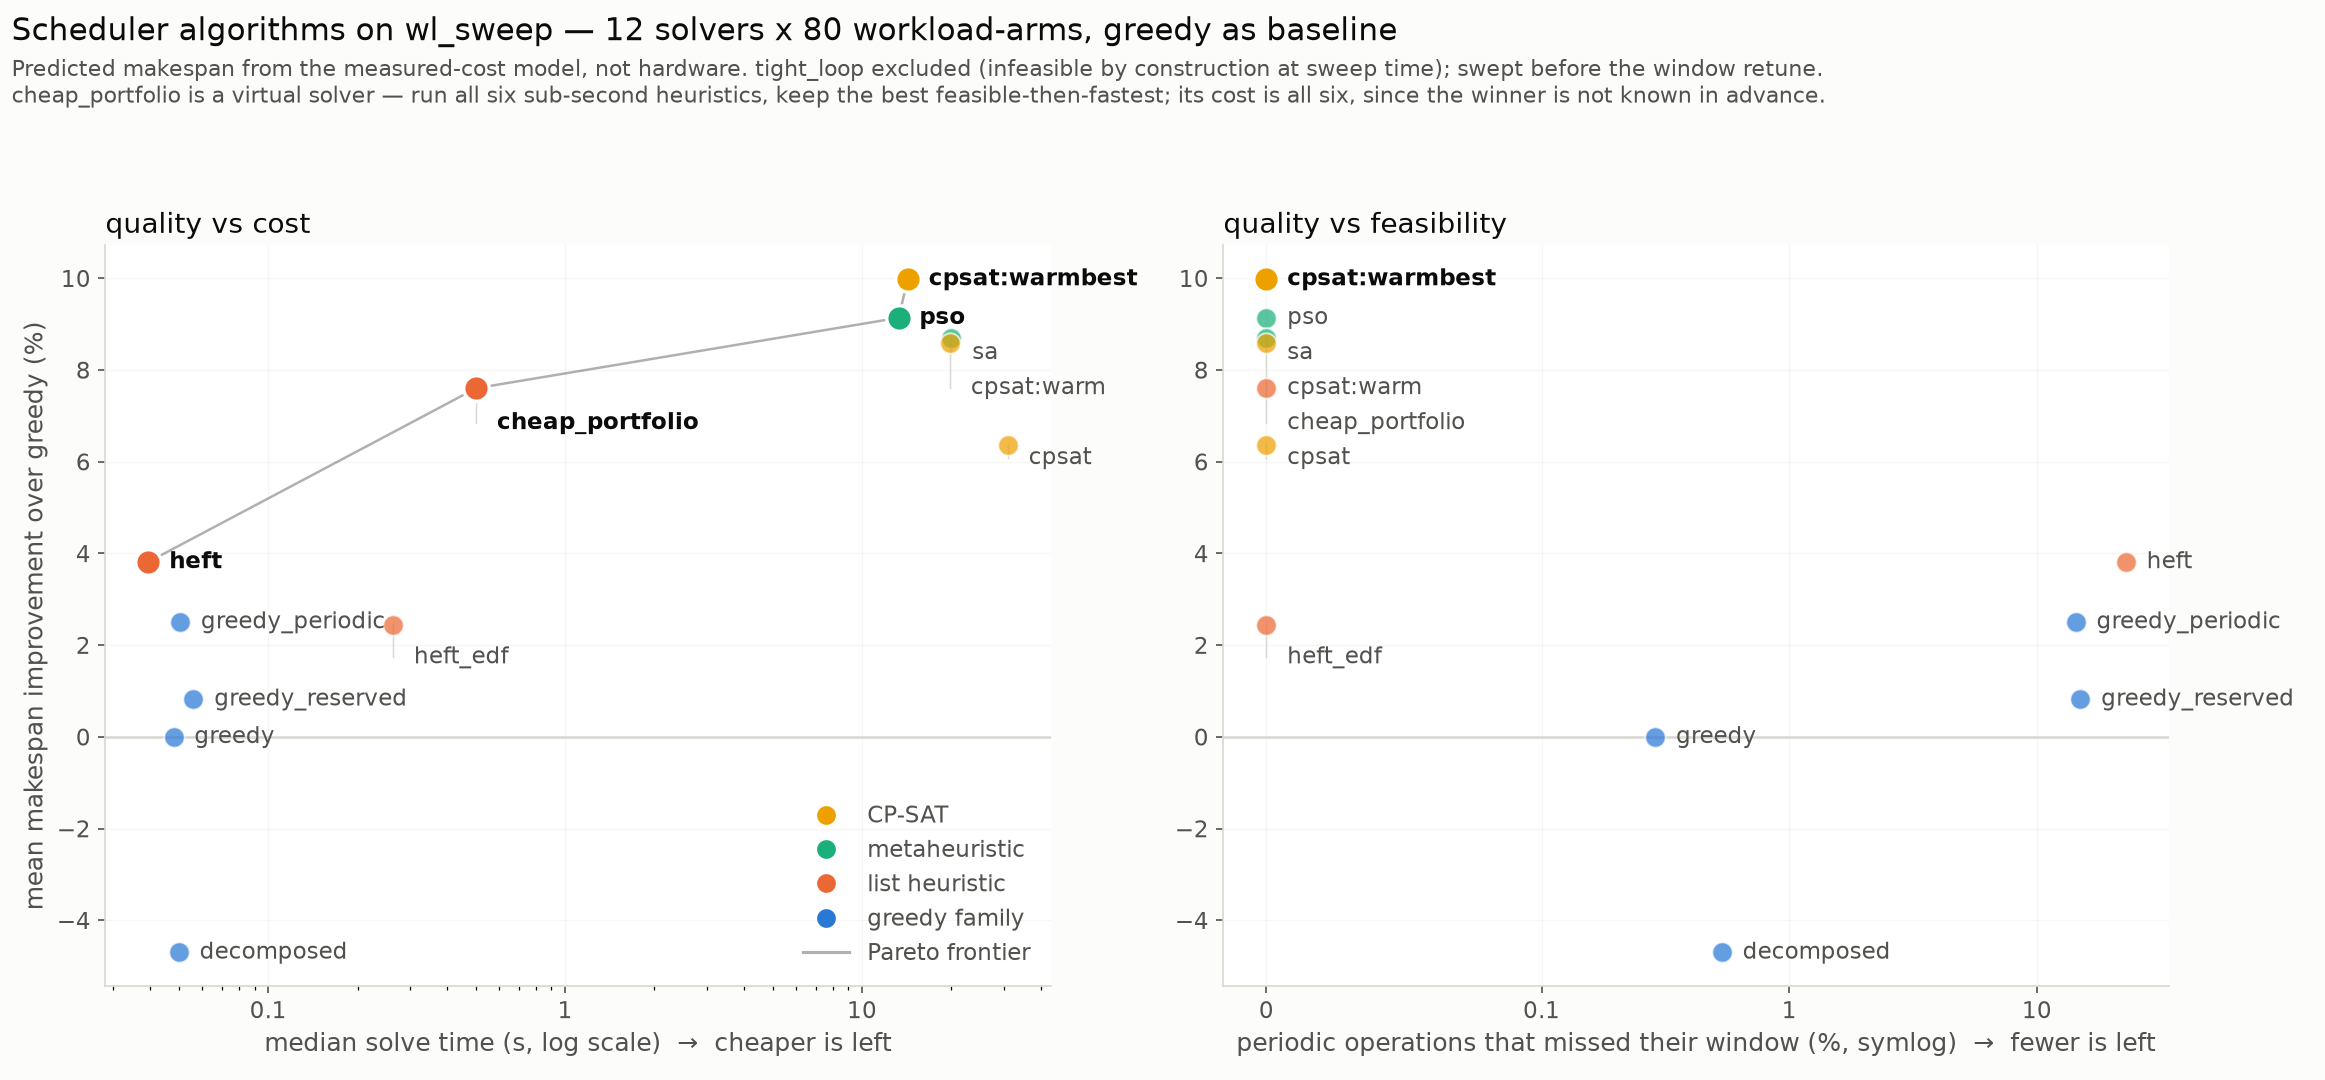
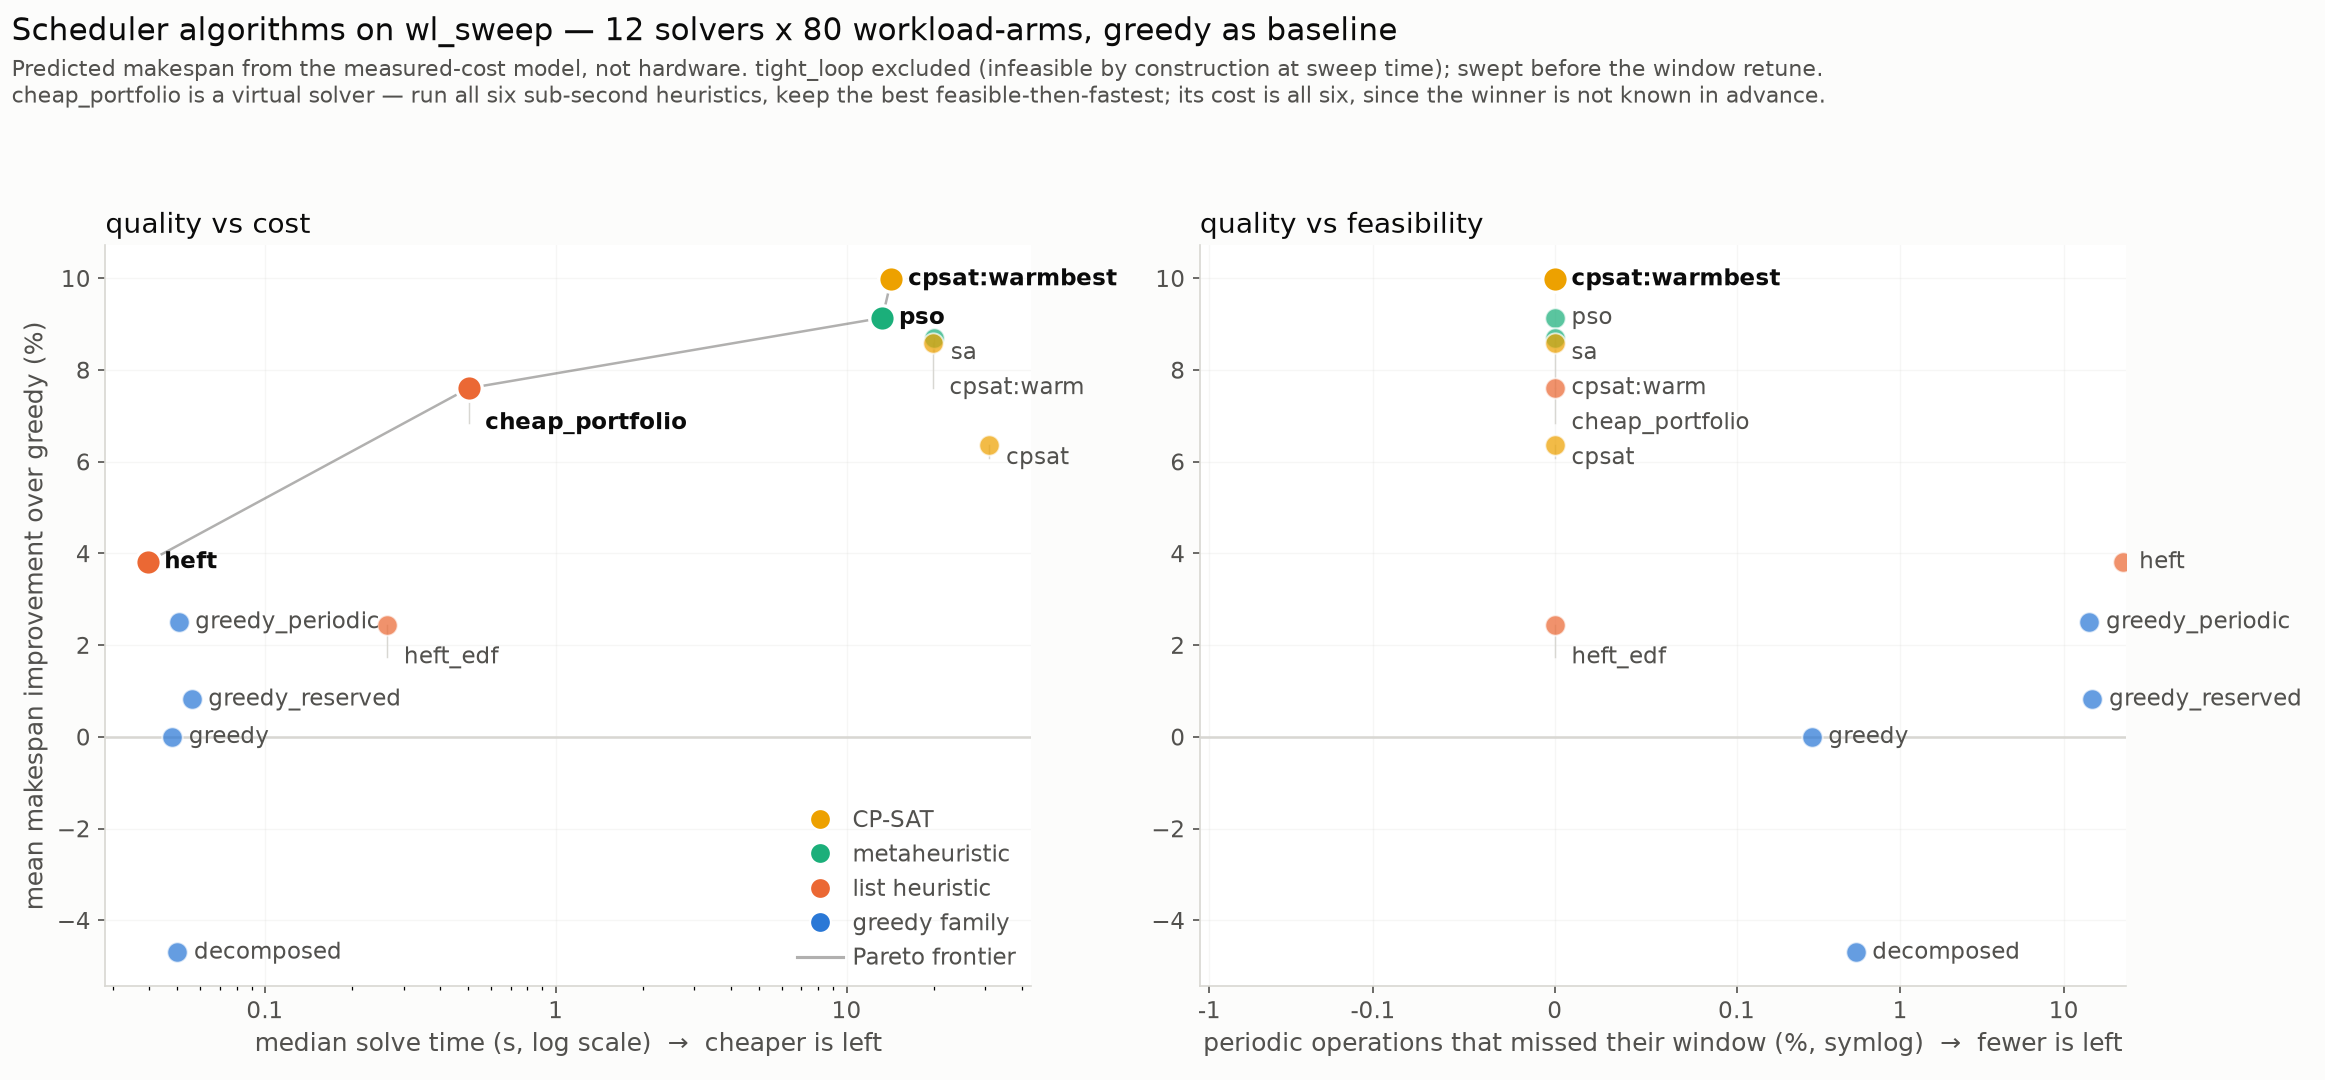
sched_algo_sweep10: a column-width variant for print
--paper renders a second figure sized for a tight single column rather than
scaling the wide one down. That distinction matters: dropping a 15.5in figure
into a 3.5in column takes 11pt type to about 2.5pt whatever size was set, so
the fix is to render at the target size, not to enlarge the source. Type ends
up roughly 2.8x larger relative to the figure.

The panels stack, because two side by side in 3.5in leave about 1.6in each and
twelve labelled points cannot survive that. Points past the panel midline label
leftwards so nothing runs off the edge, axis labels are shortened, and the
running caption is dropped -- a paper supplies its own, and repeating it here
would eat a third of the column.

The wide version is unchanged and still the default.

diff --git a/experiments/sched_algo_sweep10/scripts/plot_pareto.py b/experiments/sched_algo_sweep10/scripts/plot_pareto.py
@@ -16,7 +16,7 @@ the reference palette's slots 1-4 in fixed order.
 Baseline is greedy, per workload-arm: it is the incumbent that every one of the
 88 measured FPGA cells was scheduled with.
 """
-import csv, os, statistics, collections
+import csv, os, statistics, collections, sys
 import matplotlib
 matplotlib.use("Agg")
 import matplotlib.pyplot as plt
@@ -35,6 +35,22 @@ FAMILY = {
     "cpsat:warmbest": ("CP-SAT", "#eda100"),
 }
 INK, INK2, GRID = "#0b0b0b", "#52514e", "#d8d7d2"
+
+# PAPER MODE. A figure destined for a tight single column must be RENDERED at
+# column width, not drawn wide and shrunk: scaling a 15.5in figure into a 3.5in
+# column takes 11pt type down to about 2.5pt no matter what size was set. Here
+# the panels stack (two side by side in 3.5in would leave ~1.6in each, which
+# twelve labelled points cannot survive) and the type is sized for print, which
+# makes it roughly 2.8x larger RELATIVE to the figure than the wide version.
+PAPER = "--paper" in sys.argv
+if PAPER:
+    FIG, STACK = (3.6, 6.4), True
+    F_TITLE, F_PANEL, F_AX, F_TICK, F_LBL, F_LEG, F_CAP = 8.5, 8.0, 7.5, 7.0, 6.6, 6.6, 5.8
+    MS_ON, MS_OFF = 46, 30
+else:
+    FIG, STACK = (15.5, 7.2), False
+    F_TITLE, F_PANEL, F_AX, F_TICK, F_LBL, F_LEG, F_CAP = 15, 13.5, 12, 11, 11, 11, 10.5
+    MS_ON, MS_OFF = 150, 95
 
 rows = list(csv.DictReader(open(f"{R}/results.csv")))
 # tight_loop's periods were infeasible by construction when this swept, so every
@@ -84,7 +100,8 @@ for r in rows:
 # number: you cannot know which of the six wins on a given workload without
 # running all of them, so every one is on the critical path to the answer.
 S = sorted(imp, key=lambda s: -statistics.mean(imp[s]))
-fig, (ax1, ax2) = plt.subplots(1, 2, figsize=(15.5, 7.2))
+fig, (ax1, ax2) = plt.subplots(2, 1, figsize=FIG) if STACK else \
+                  plt.subplots(1, 2, figsize=FIG)
 
 
 def frontier(ax, xs, ys, names, lower_x_better=True):
@@ -101,9 +118,11 @@ def frontier(ax, xs, ys, names, lower_x_better=True):
 
 for ax, xs, xlabel, scale in (
         (ax1, [statistics.median(wall[s]) for s in S],
-         "median solve time (s, log scale)  →  cheaper is left", "log"),
+         ("median solve time (s)" if PAPER else
+          "median solve time (s, log scale)  →  cheaper is left"), "log"),
         (ax2, [statistics.mean(miss_pct[s]) for s in S],
-         "periodic operations that missed their window (%, symlog)  →  fewer is left",
+         ("periodic ops missing their window (%)" if PAPER else
+          "periodic operations that missed their window (%, symlog)  →  fewer is left"),
          "symlog")):
     ys = [statistics.mean(imp[s]) for s in S]
     front = frontier(ax, xs, ys, S)
@@ -123,15 +142,22 @@ for ax, xs, xlabel, scale in (
     for i, (x, y, s) in enumerate(zip(xs, ys, S)):
         fam, col = FAMILY[s]
         on = s in front
-        ax.scatter([x], [y], s=150 if on else 95, color=col, zorder=3,
+        ax.scatter([x], [y], s=MS_ON if on else MS_OFF, color=col, zorder=3,
                    edgecolor="white", linewidth=1.6 if on else 0.9,
                    alpha=1.0 if on else 0.72)
         ly = label_y[i]
         # a hairline leader only when the label had to move off its point
         if abs(ly - y) > gap * 0.35:
             ax.plot([x, x], [y, ly], color=GRID, lw=0.7, zorder=2)
-        ax.annotate(s, (x, ly), textcoords="offset points", xytext=(10, -3),
-                    fontsize=11, color=INK if on else INK2,
+        # In a single column there is no room for a right-hand label on a
+        # right-hand point, so points past the midline label leftwards.
+        x0, x1 = ax.get_xlim()
+        frac = ((ax.transData.transform((x, 0))[0] - ax.transAxes.transform((0, 0))[0])
+                / max(ax.transAxes.transform((1, 0))[0] - ax.transAxes.transform((0, 0))[0], 1))
+        left = PAPER and frac > 0.55
+        ax.annotate(s, (x, ly), textcoords="offset points",
+                    xytext=(-8 if left else 8, -3), ha="right" if left else "left",
+                    fontsize=F_LBL, color=INK if on else INK2,
                     fontweight="bold" if on else "normal", zorder=4)
     # symlog, not log, on the misses axis: six solvers sit at EXACTLY zero
     # misses, and a linear axis crushes them into one pile against heft's 2930
@@ -145,18 +171,23 @@ for ax, xs, xlabel, scale in (
     ax.xaxis.set_major_formatter(FuncFormatter(lambda v, _: f"{v:g}"))
     ax.xaxis.set_minor_formatter(NullFormatter())
     ax.axhline(0, color=GRID, lw=1.2, zorder=0)
-    ax.set_xlabel(xlabel, fontsize=12, color=INK2)
+    ax.set_xlabel(xlabel, fontsize=F_AX, color=INK2)
+    if PAPER:
+        ax.margins(x=0.12)
     ax.grid(alpha=0.22, lw=0.6, color=GRID)
     ax.set_axisbelow(True)
     for sp in ("top", "right"):
         ax.spines[sp].set_visible(False)
     for sp in ("left", "bottom"):
         ax.spines[sp].set_color(GRID)
-    ax.tick_params(colors=INK2, labelsize=11)
+    ax.tick_params(colors=INK2, labelsize=F_TICK)
 
-ax1.set_ylabel("mean makespan improvement over greedy (%)", fontsize=12, color=INK2)
-ax1.set_title("quality vs cost", fontsize=13.5, color=INK, loc="left")
-ax2.set_title("quality vs feasibility", fontsize=13.5, color=INK, loc="left")
+for _a in ((ax1, ax2) if STACK else (ax1,)):
+    _a.set_ylabel("makespan gain over greedy (%)" if PAPER
+                  else "mean makespan improvement over greedy (%)",
+                  fontsize=F_AX, color=INK2)
+ax1.set_title("quality vs cost", fontsize=F_PANEL, color=INK, loc="left")
+ax2.set_title("quality vs feasibility", fontsize=F_PANEL, color=INK, loc="left")
 
 seen, handles = set(), []
 from matplotlib.lines import Line2D
@@ -164,23 +195,31 @@ for s in S:
     fam, col = FAMILY[s]
     if fam in seen: continue
     seen.add(fam)
-    handles.append(Line2D([], [], marker="o", ls="", color=col, markersize=10,
+    handles.append(Line2D([], [], marker="o", ls="", color=col, markersize=6 if PAPER else 10,
                           markeredgecolor="white", label=fam))
 handles.append(Line2D([], [], ls="-", color=INK2, alpha=0.45, label="Pareto frontier"))
-ax1.legend(handles=handles, loc="lower right", frameon=False, fontsize=11,
-           labelcolor=INK2)
+ax1.legend(handles=handles, loc="lower right", frameon=False, fontsize=F_LEG,
+           labelcolor=INK2, handletextpad=0.4, borderpad=0.2,
+           labelspacing=0.3 if PAPER else 0.5)
 
-fig.suptitle("Scheduler algorithms on wl_sweep — 12 solvers x 80 workload-arms, "
-             "greedy as baseline", fontsize=15, color=INK, x=0.005, ha="left",
-             y=0.985)
-fig.text(0.005, 0.905,
-         "Predicted makespan from the measured-cost model, not hardware. tight_loop excluded "
-         "(infeasible by construction at sweep time); swept before the window retune.\n"
-         "cheap_portfolio is a virtual solver — run all six sub-second heuristics, keep the best "
-         "feasible-then-fastest; its cost is all six, since the winner is not known in advance.",
-         fontsize=10.5, color=INK2, ha="left")
-fig.tight_layout(rect=[0, 0, 1, 0.875])
-out = os.path.join(os.path.dirname(HERE), "plots", "solver_pareto.png")
+if PAPER:
+    # No running caption: the paper's own figure caption carries the method and
+    # the caveats, and repeating them here would eat a third of the column.
+    fig.suptitle("Scheduler algorithms on wl_sweep", fontsize=F_TITLE,
+                 color=INK, x=0.01, ha="left", y=0.995)
+else:
+    fig.suptitle("Scheduler algorithms on wl_sweep — 12 solvers x 80 workload-arms, "
+                 "greedy as baseline", fontsize=F_TITLE, color=INK, x=0.005,
+                 ha="left", y=0.985)
+    fig.text(0.005, 0.905,
+             "Predicted makespan from the measured-cost model, not hardware. tight_loop excluded "
+             "(infeasible by construction at sweep time); swept before the window retune.\n"
+             "cheap_portfolio is a virtual solver — run all six sub-second heuristics, keep the best "
+             "feasible-then-fastest; its cost is all six, since the winner is not known in advance.",
+             fontsize=F_CAP, color=INK2, ha="left")
+fig.tight_layout(rect=[0, 0, 1, 0.965] if PAPER else [0, 0, 1, 0.875])
+out = os.path.join(os.path.dirname(HERE), "plots",
+                   "solver_pareto_column.png" if PAPER else "solver_pareto.png")
 fig.savefig(out, dpi=150, facecolor="#fcfcfb")
 print("wrote", out)
 print(f"\n  {'solver':<18}{'mean %':>9}{'med wall':>10}{'miss%':>10}{'total':>9}{'cells hit':>11}")
